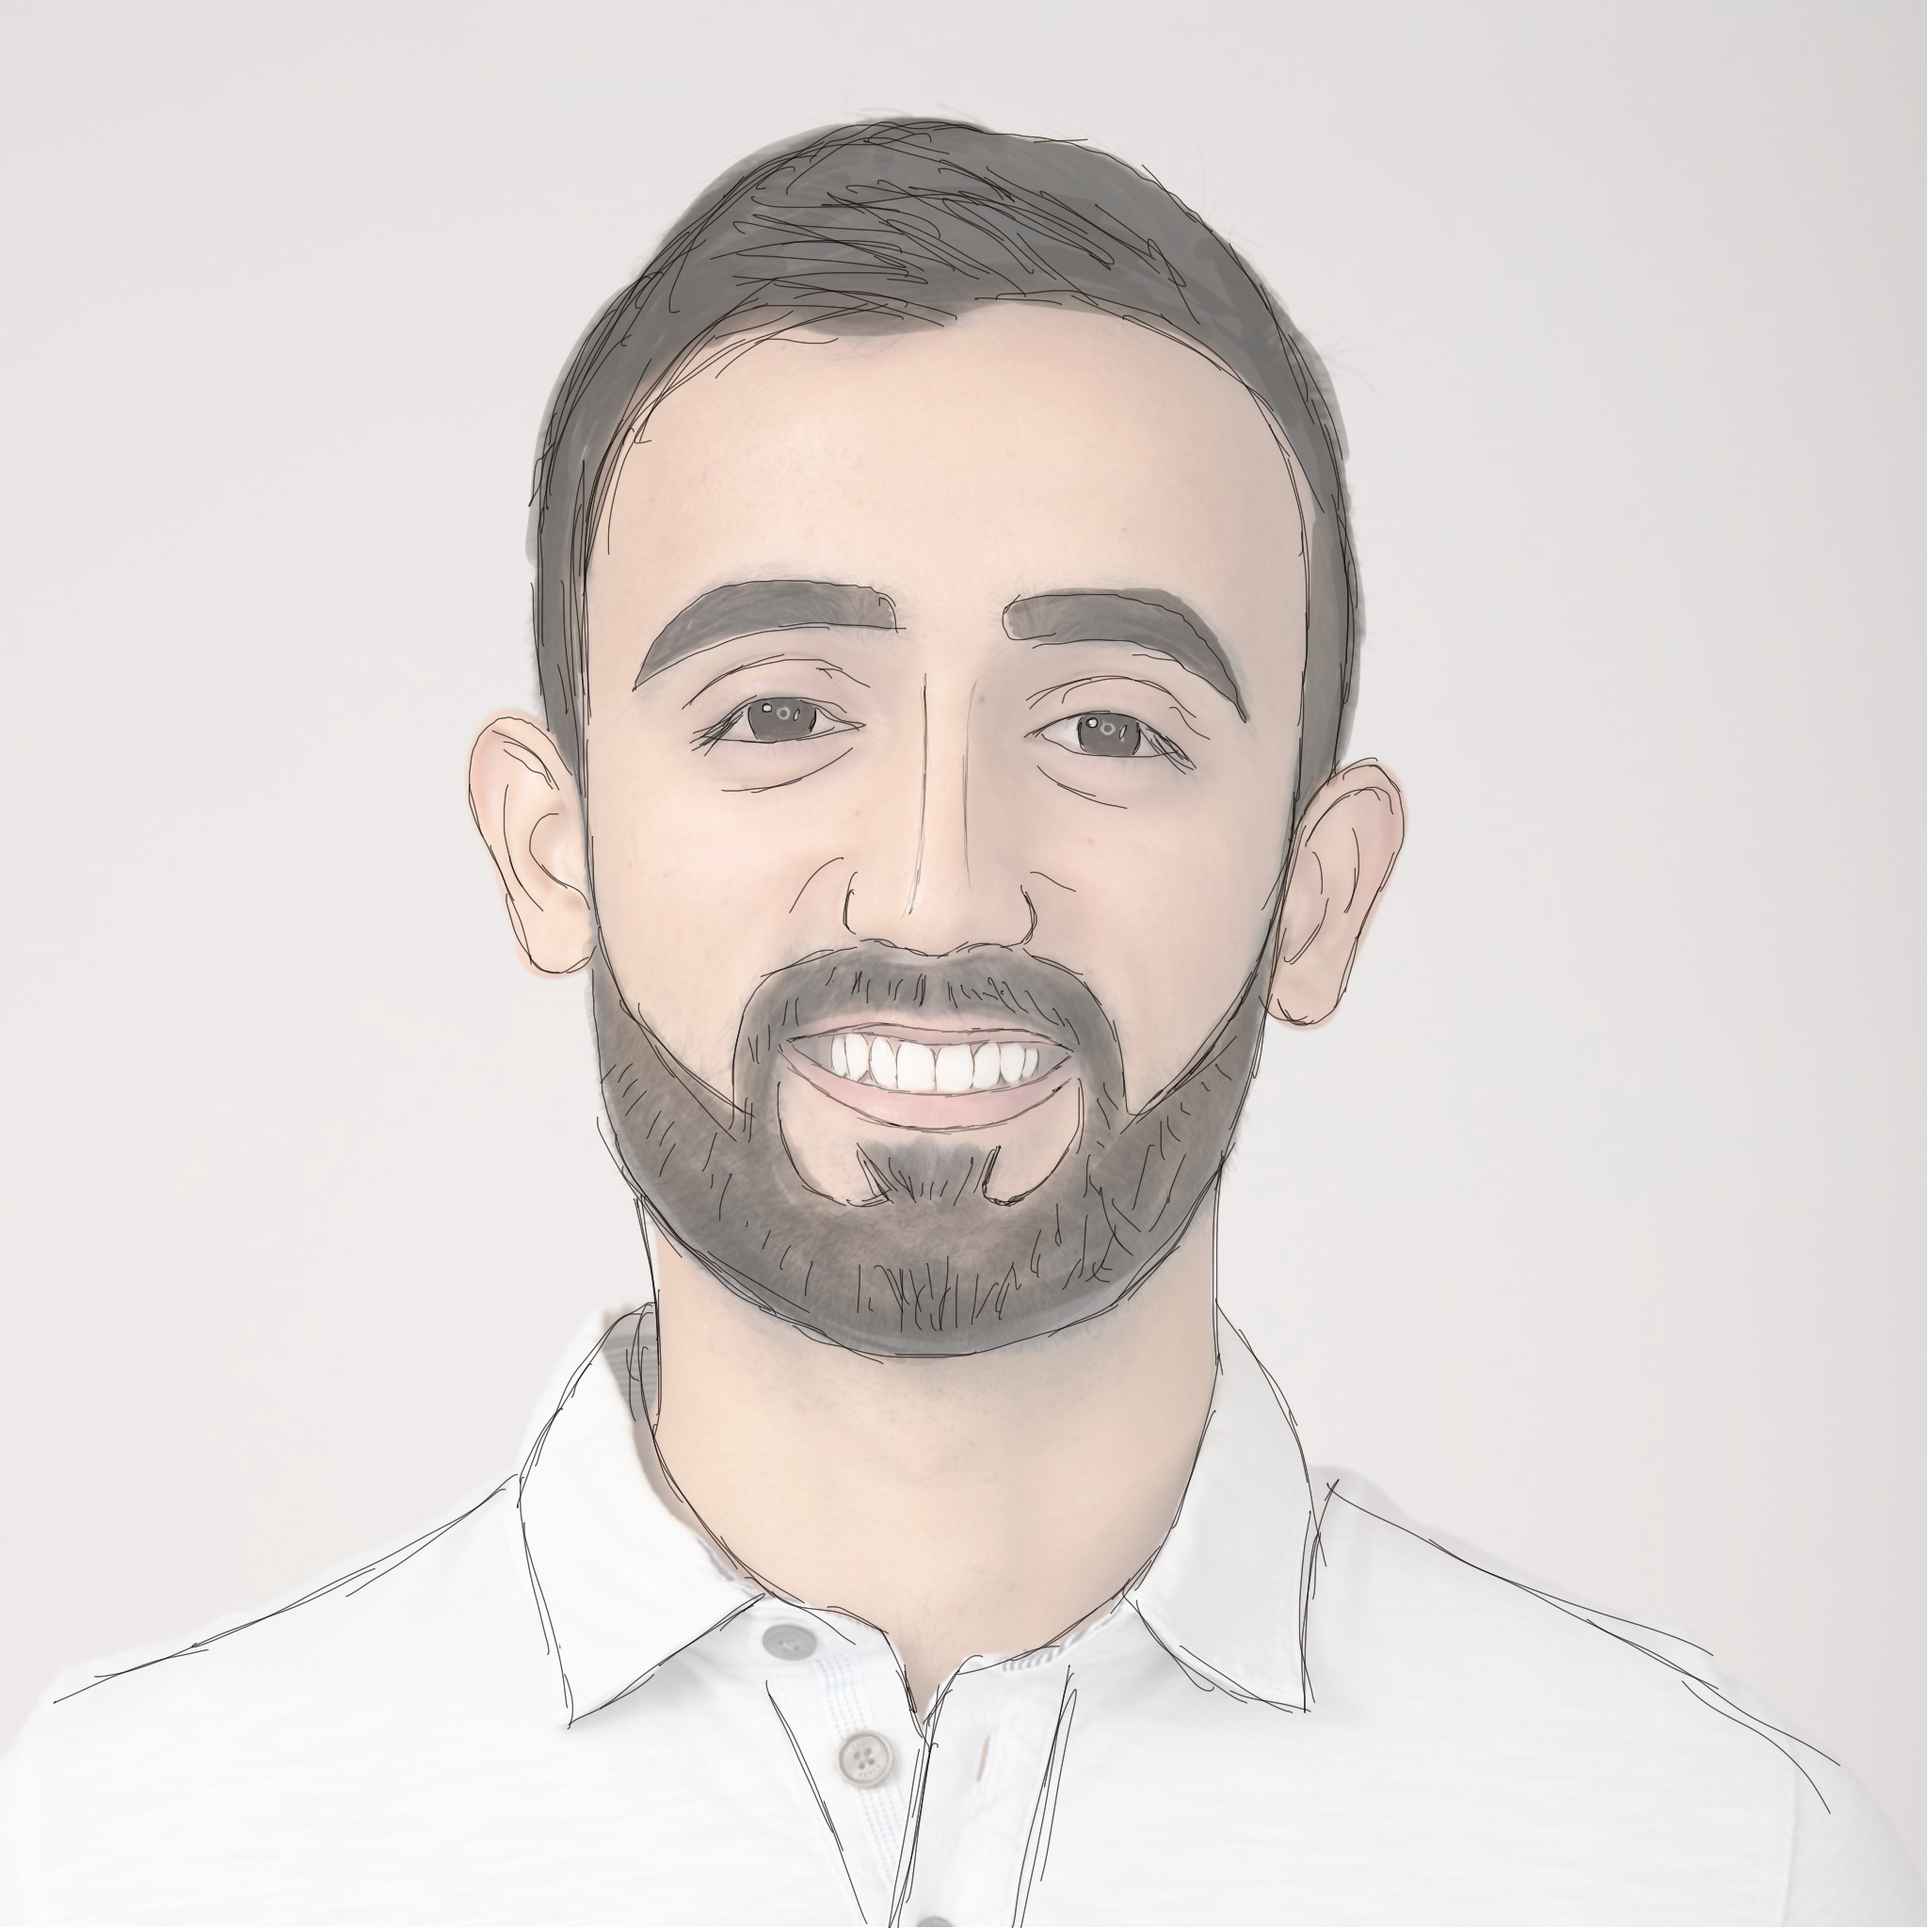
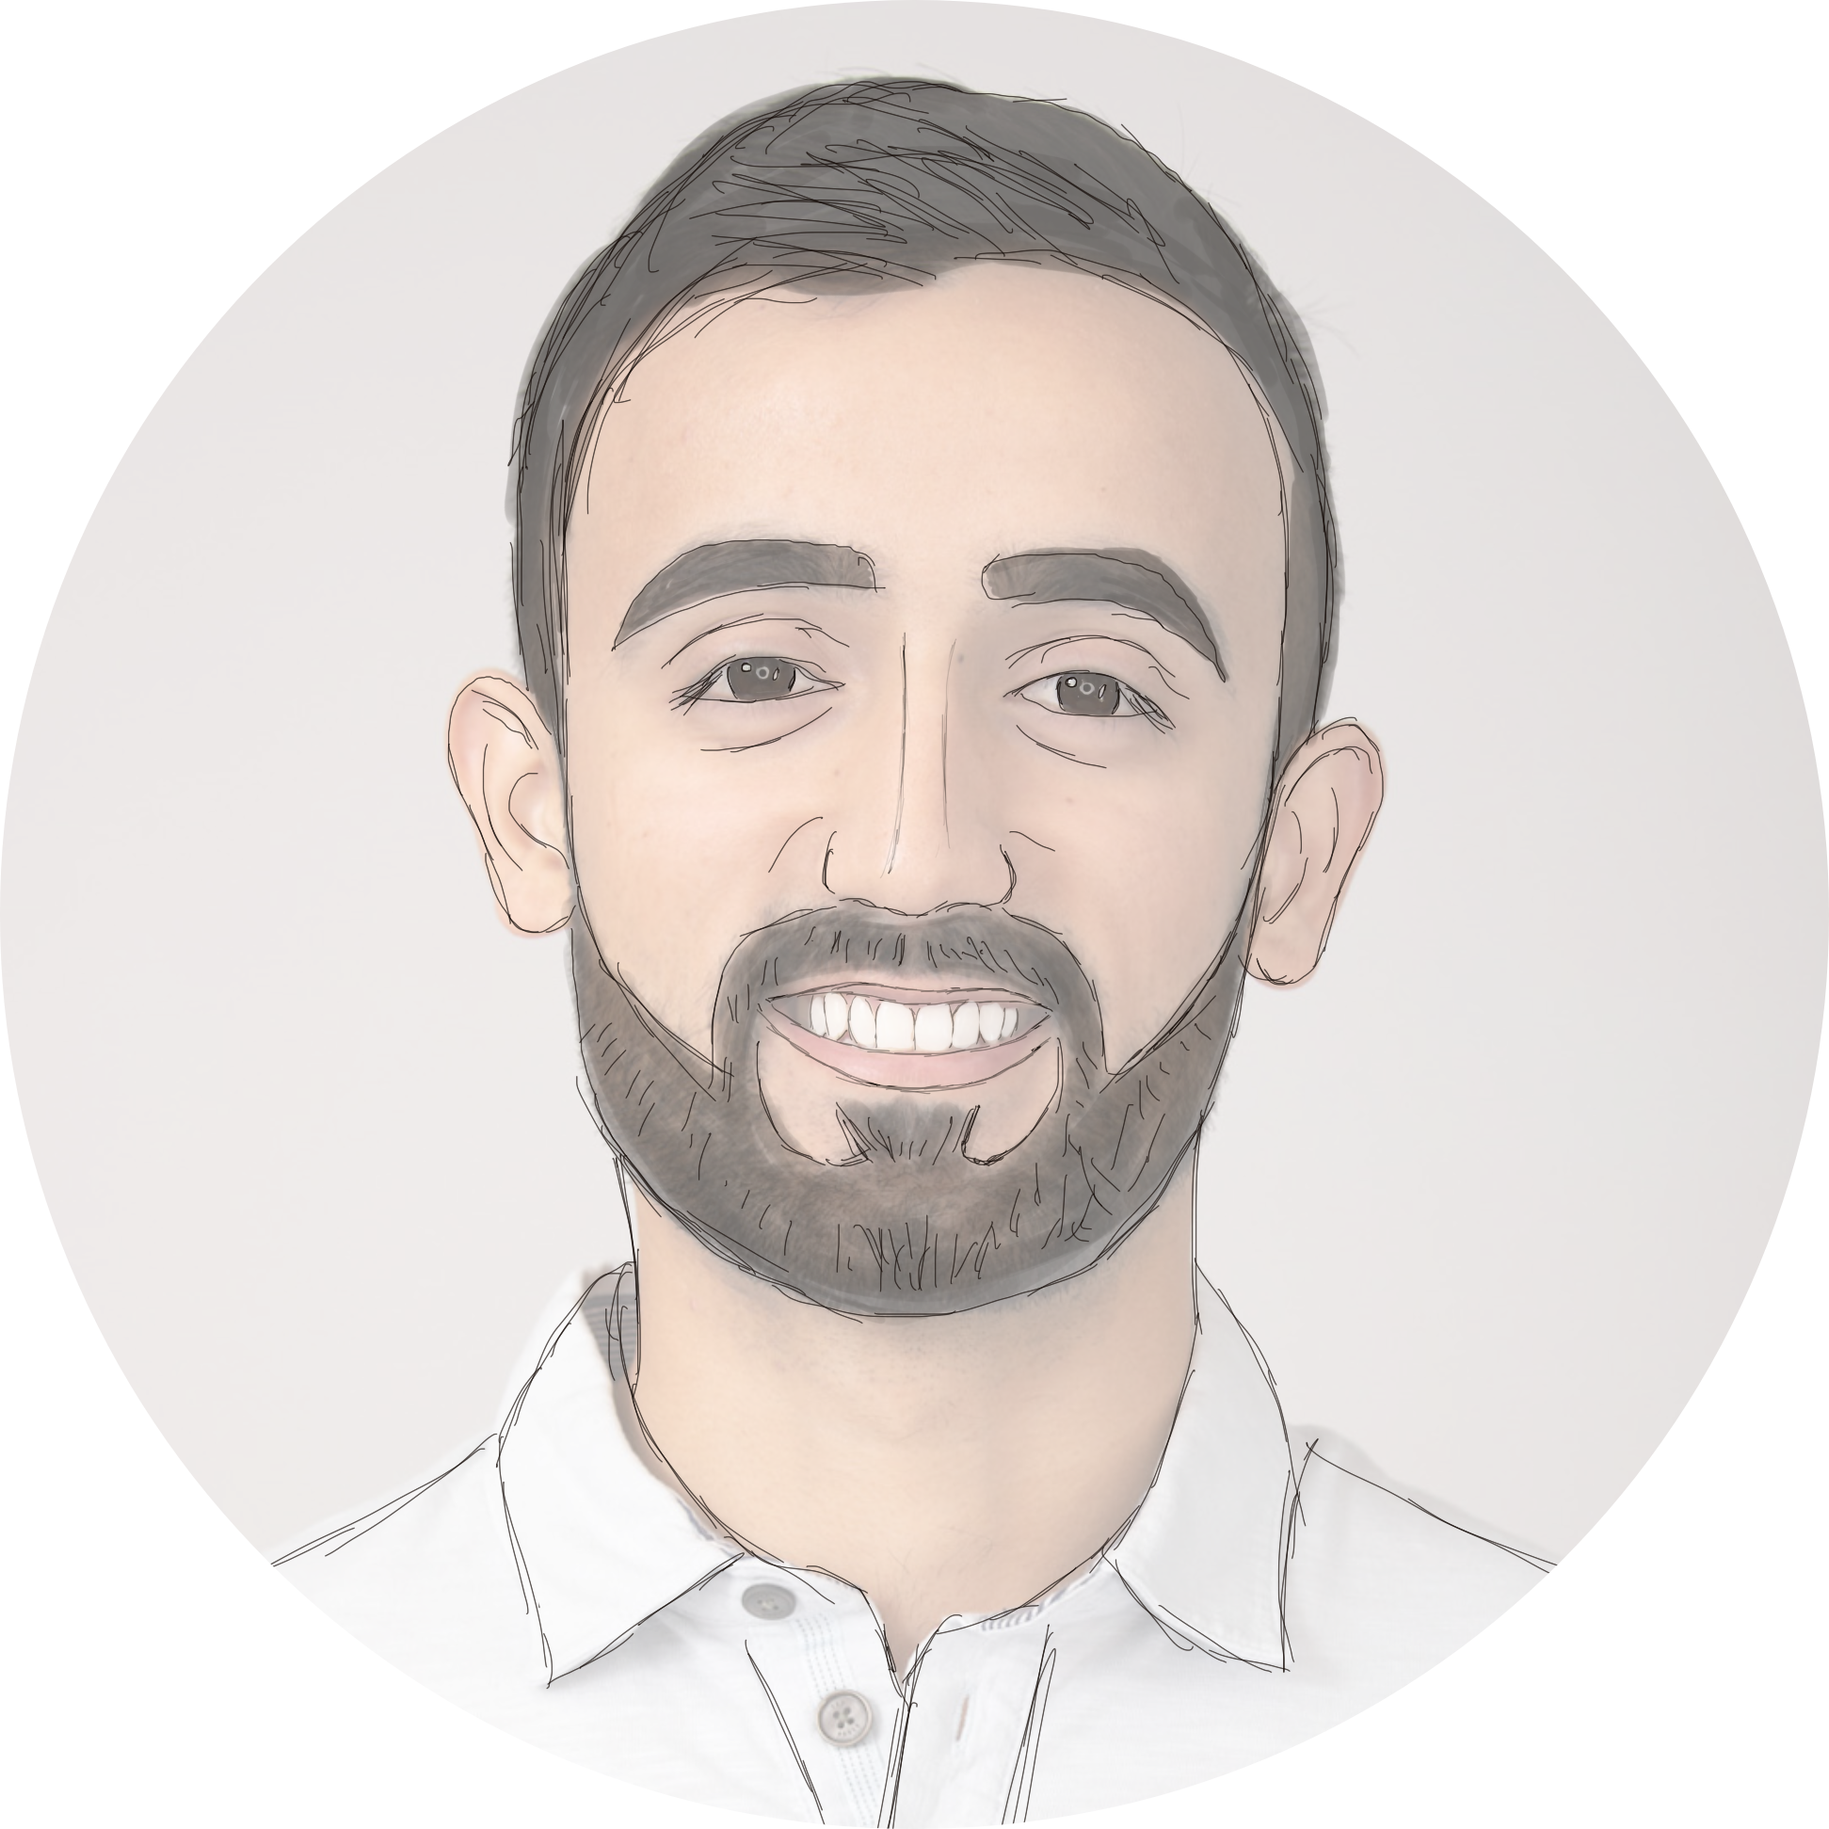
using round profile picture

diff --git a/src/components/bio.js b/src/components/bio.js
@@ -21,7 +21,7 @@ export function StatImage() {
         width={150}
         height={150}
         quality={95}
-        imgStyle={{ borderRadius: '100%' }}
+        // imgStyle={{ borderRadius: '100%' }}
         alt="Profile picture"
       />
     )
